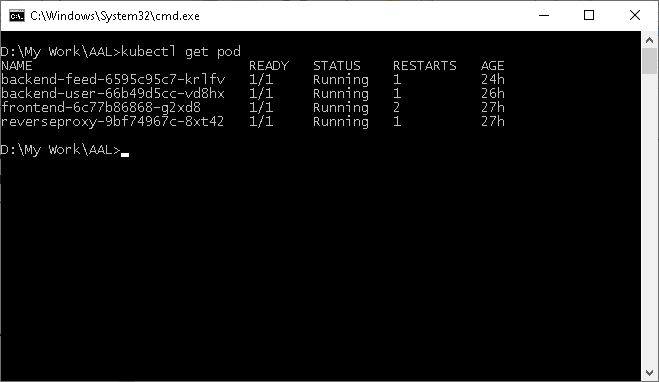
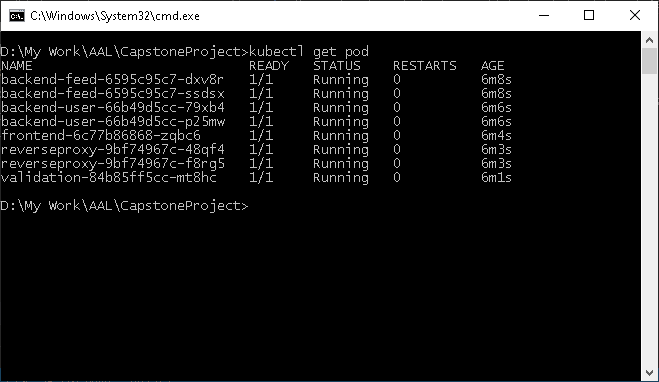
add more screen shot- change replica set

diff --git a/udacity-c3-restapi-feed/src/controllers/v0/feed/routes/feed.router.ts b/udacity-c3-restapi-feed/src/controllers/v0/feed/routes/feed.router.ts
@@ -75,7 +75,7 @@ async function  ValidateFileName(url:string): Promise<any>{
 }
 
 // Get a signed url to put a new item in the bucket
-router.get('/signed-url/:fileName',     async (req: Request, res: Response) => {
+router.get('/signed-url/:fileName', requireAuth ,    async (req: Request, res: Response) => {
     let { fileName } = req.params;
     console.log("fileName is:",fileName);
    let result = await ValidateFileName(`http://localhost:8181/api/v0/${fileName}`)

diff --git a/README.md b/README.md
@@ -8,7 +8,9 @@ The project consists on
 2. *udacity-restapi-feed* - For "feed" microservice
 3. *udacity-restapi-user* - For "user" microservice
 4. *udacity-reverseproxy* - For running the Nginx as a reverse-proxy server
-5. *udacity-validation* - For validate image file name to prevent some reversed word from using as file names
+5. *udacity-validation* - For validate image file name to prevent some reversed word from using as file names validate the Feed/signed-url EndPoint
+so that we apply chained microservice desgin pattern 
+
 
 Build the application
 1. Run udacity-c3-deployment\docker\ build.cmd *shell scrpit to build all images*
@@ -19,4 +21,9 @@ Build the application
 6. Run udacity-c3-deployment\k8s\forward validation.cmd *Shell script to forward port for validation services*
 
 
+**Note that
+
+By default Kubernetes offer RollingUpdate strategy feature is set to RollingUpdate that allow us to update the container with Zero downtime and build System which enhanced in resiliency 
+Two versions  but some  deployment run in one replicas set due to local cpu limit 
+- 'A' and 'B' of the same application can run simultaneously and serve the traffic by scaling up/scaling down 
 
